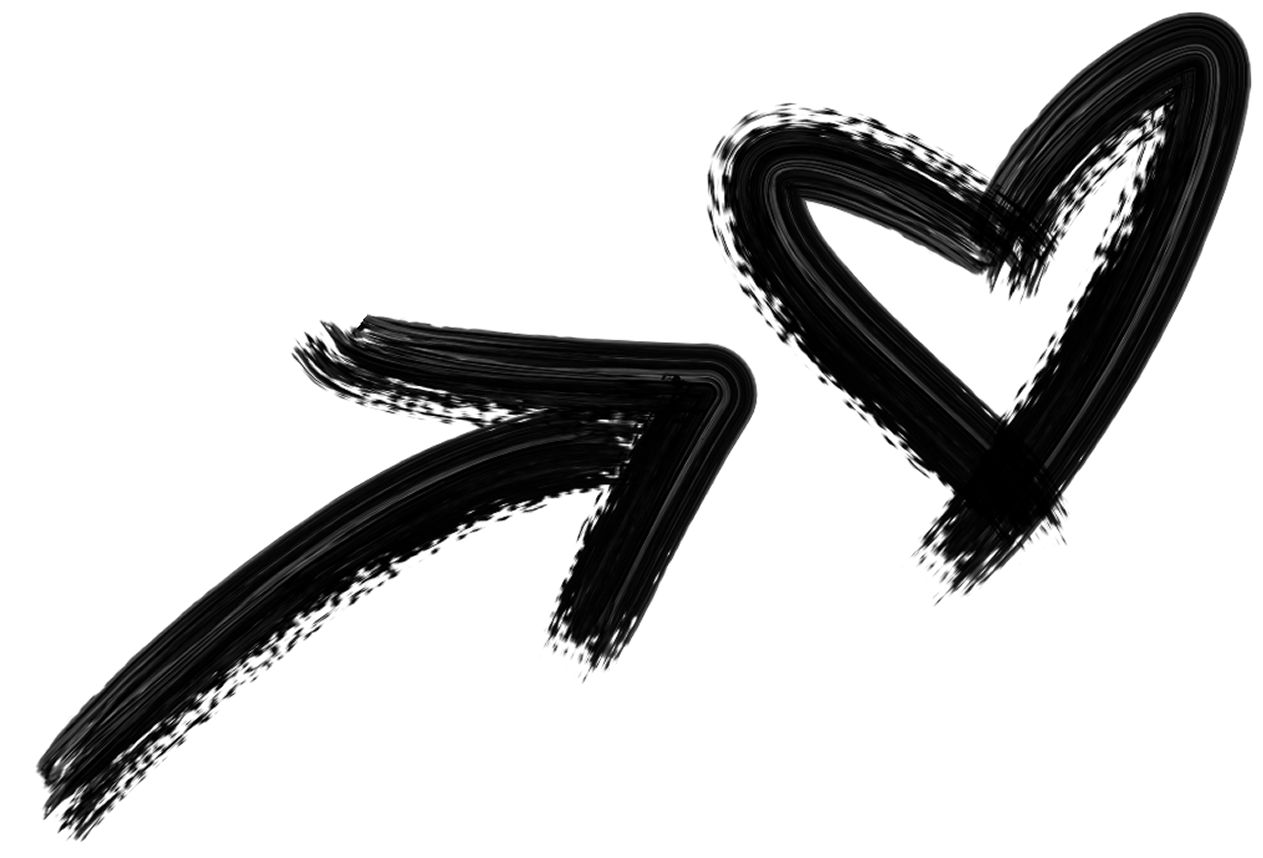
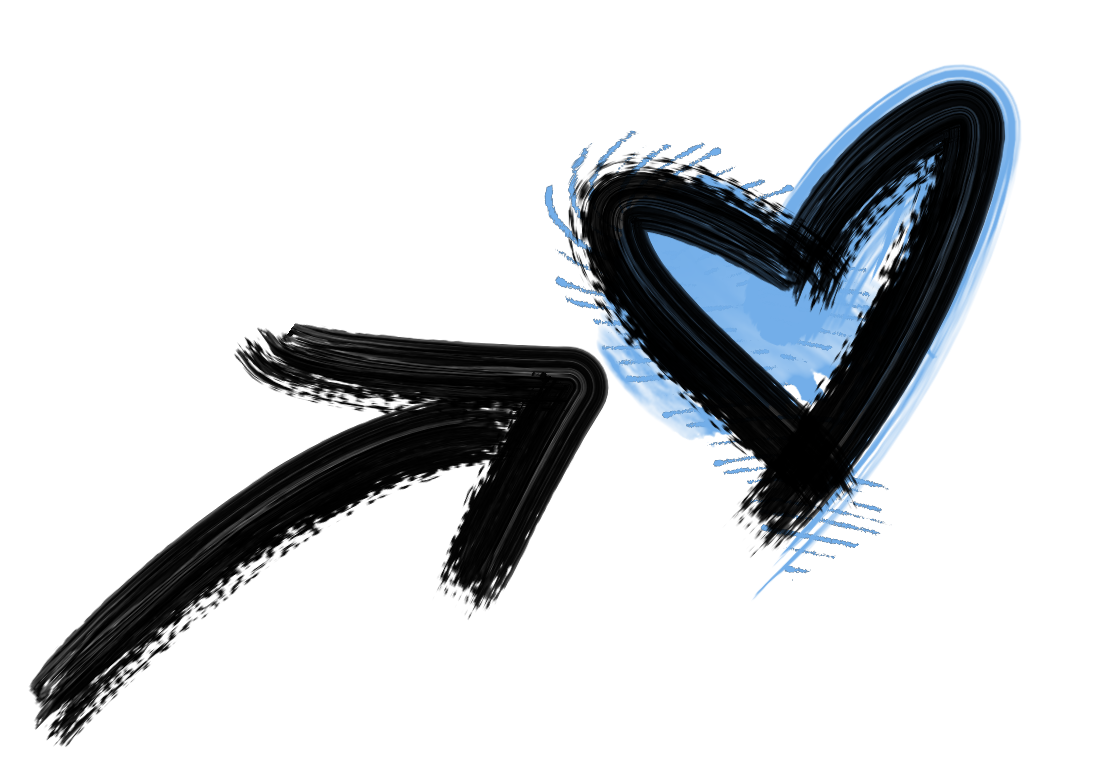
Update service images

Changed region(s): [[0.0309, 0.0, 1.0, 0.9987], [0.68, 0.7566, 0.7109, 0.7868]]

diff --git a/src/services.html b/src/services.html
@@ -9,7 +9,7 @@ title: Two Sense Studio - Services
 
 <div class="basic-grid-wrapper--horizontal basic-grid basic-grid--services">
 	<div class="basic-grid--full-width">
-		<img width="100px" src="<%= relative_url '/images/services_want.png' %>" alt="" />
+		<img class="services__image" src="<%= relative_url '/images/services_want.png' %>" alt="" />
 	</div>
 	<div class="basic-grid--full-width">
 		<h2>Build what your customers actually want</h2>
@@ -39,7 +39,7 @@ title: Two Sense Studio - Services
 
 <div class="basic-grid-wrapper--horizontal basic-grid basic-grid--services">
 	<div class="basic-grid--full-width">
-		<img width="100px" src="<%= relative_url '/images/services_happy.png' %>" alt="" />
+		<img class="services__image" src="<%= relative_url '/images/services_happy.png' %>" alt="" />
 	</div>
 	<div class="basic-grid--full-width">
 		<h2>Keep your customers happy</h2>
@@ -67,7 +67,7 @@ title: Two Sense Studio - Services
 
 <div class="basic-grid-wrapper--horizontal basic-grid basic-grid--services">
 	<div class="basic-grid--full-width">
-		<img width="100px" src="<%= relative_url '/images/services_enable.png' %>" alt="" />
+		<img class="services__image" src="<%= relative_url '/images/services_enable.png' %>" alt="" />
 	</div>
 	<div class="basic-grid--full-width">
 		<h2>Enable your team</h2>

diff --git a/frontend/styles/_partnerships.scss b/frontend/styles/_partnerships.scss
@@ -6,7 +6,7 @@
 
 .partnerships__mobile-image {
 	display: block;
-	
+
 	@media only screen and (min-width: $breakpoint-medium) {
 		display: none;
 	}
@@ -20,4 +20,3 @@
 		display: block;
 	}
 }
-

diff --git a/frontend/styles/index.scss b/frontend/styles/index.scss
@@ -9,6 +9,7 @@
 @use 'home';
 @use 'values';
 @use 'partnerships';
+@use 'services';
 
 /*:root {
   --body-background: #f2f2f2;

diff --git a/frontend/styles/_services.scss b/frontend/styles/_services.scss
@@ -1,0 +1,3 @@
+.services__image {
+	width: 40%;
+}
